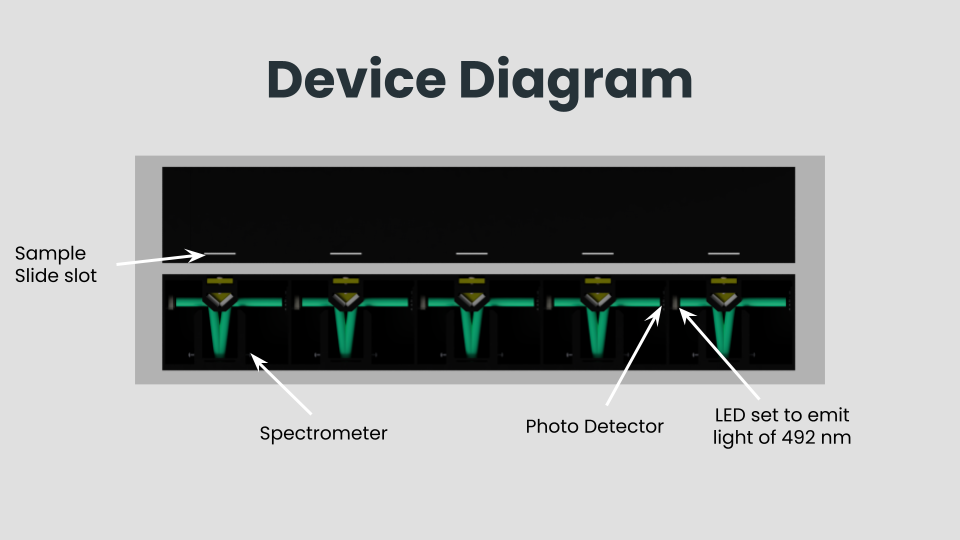
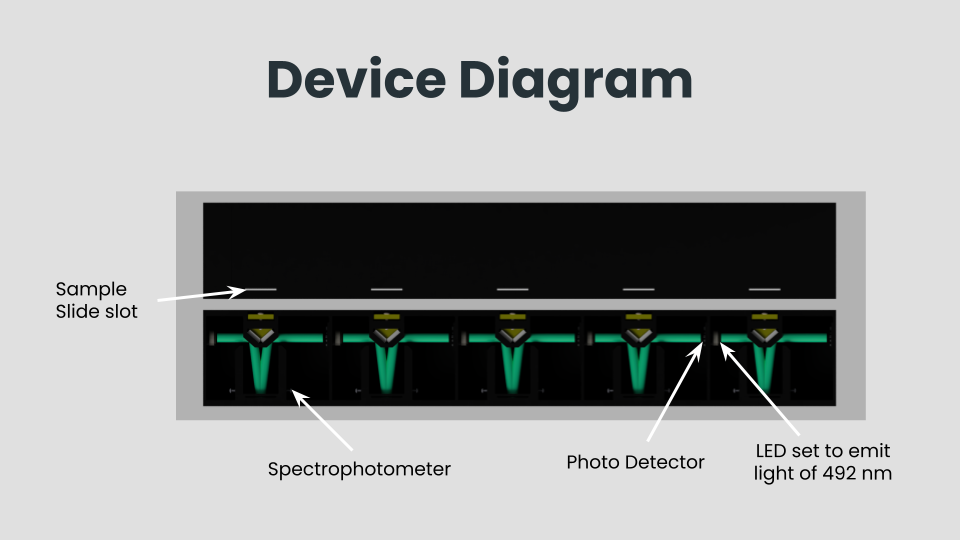
Changes to layout and info

Changed region(s): [[0.0, 0.2667, 0.9375, 0.8889], [0.5938, 0.8296, 0.7188, 0.8889], [0.2812, 0.8593, 0.4688, 0.8889]]

diff --git a/index.html b/index.html
@@ -32,7 +32,7 @@
                         <a class="nav-link" href="applications.html">Applications</a>
                       </li>
                       <li class="nav-item">
-                        <a class="nav-link" href="Sources.html">Sources</a>
+                        <a class="nav-link" href="sources.html">Sources</a>
                       </li>
                     </ul>
                   </div>
@@ -47,7 +47,7 @@
                     <h5>TeamID: 1333-2</h5>
                 </div>
                 <div class="col-md-5 col-sm-12">
-                    <img src="Images and Videos\Brain.png" alt="image"/>
+                    <img src="/Images and Videos/brain.png" alt="image"/>
                 </div>
             </div>
         </div>
@@ -58,15 +58,21 @@
         <div class="container text-center">
             <div class="row">
                 <div class="col-md-6 col-ms-12">
-                    <h3>Device Breakdown</h3>
-                    <p>Our device uses the fluoroimmunoassay technique to measure the concentrations of biomarkers. Five different antibodies (FasL antibody, anti-Apolipoprotein c3 antibody, NTproBNP antibody, HSC70 Antibody, and Anti-oncogene antibody) are labeled fluorescein and spread on different slides. A small amount of the patient's blood is drawn and spread across the five different sample sides. The reaction between the five biomarker antigens (FasL, ApC3, NT-ProBNP, HSC70, and growth related oncogene-∝) releases the fluorescein that was bound to the antibody. The slide is inserted into the device and set on the spectrometer. A light of wavelength 492 nm, the optimum wavelength fluorescein absorbs, is sent through the spectrometer and passed through the sample. The available fluorescein absorbs the light decreasing the intensity of the light. The remaining light is reflected back up to a photodetector that measures the new intensity of the light. The decrease in light intensity is proportional to the amount of fluorescein released which is proportional to the concentration of the biomarkers in the patients blood.</p>
-                </div>
+                    <h3>Overview</h3>
+                    <p>Our device uses the fluoroimmunoassay technique to measure the concentrations of five different antigens(FasL, ApC3, NT-ProBNP, HSC70, and growth related oncogene-∝) which can be used to determine the probability of the occurrence of a stroke.</p>
+                    <h3>How Fluorolyze is used</h3>
+                    <p>A small amount of the patient's blood is drawn and spread across the five different sample sides. The slides are inserted into the slots on the device and it determines the concentration of the five stroke biomarkers through fluoroimmunoassay. Using the determined concentrations the device outputs the probability of a stroke occurring which EMTs can use to prep the patient to receive the proper treatment. This entire process is conducted within only a few minutes.</p>
+                  </div>
                 <div class="col-md-6 col-ms-12">
-                    <iframe scrolling='no' frameborder='0' allowfullscreen='true' src='https://www.3dcontentcentral.com/external-site-embed.aspx?format=3D&catalogid=171&modelid=1529739&width=250&height=250&edraw=true' name='PreviewFrame3D' id='PreviewFrame3D' alt="Model"></iframe><br/><!--<a href='https://www.3dcontentcentral.com/download-model.aspx?catalogid=171&id=1529739'>Download</a>-->
+                    <iframe scrolling='no' style="border:2px solid black;" allowfullscreen='true' src='https://www.3dcontentcentral.com/external-site-embed.aspx?format=3D&catalogid=171&modelid=1529739&width=250&height=250&edraw=true' name='PreviewFrame3D' id='PreviewFrame3D' alt="Model"></iframe><br/><!--<a href='https://www.3dcontentcentral.com/download-model.aspx?catalogid=171&id=1529739'>Download</a>-->
                 </div>
             </div>
 
             <div class="row">
+              <div class="col-md-6 col-sm-12">
+                <h3>Fluroimmunoassay</h3>
+                <p>When conducting a fluoroimmunoassay, either an antibody or antigen is labeled with a fluorescent (our device uses fluorescence) and introduced to their counterpart antibody or antigen. When the antibody and antigen react, the bound fluorescein is released, and its concentration can be determined using a spectrophotometer. A light with a wavelength of 492 nm, fluorescein's maximum absorption, is passed through the sample and the amount of light absorbed is directly proportional to the concentration of fluorescein released. The concentration of fluorescein is directly proportional to the number of antibody-antigen complexes.</p>
+            </div>
                 <div class="col-md-6 col-sm-12">
                     <div id="carouselExampleIndicators" class="carousel slide" data-bs-ride="carousel">
                         <div class="carousel-indicators">
@@ -79,22 +85,22 @@
                         </div>
                         <div class="carousel-inner">
                           <div class="carousel-item active">
-                            <img src="Images and Videos\slide1.png" class="d-block w-100" alt="Slide One">
+                            <img src="/Images and Videos/slide1.png" class="d-block w-100" alt="Slide One">
                           </div>
                           <div class="carousel-item">
-                            <img src="Images and Videos\slide2.png" class="d-block w-100" alt="Slide Two">
+                            <img src="/Images and Videos/slide2.png" class="d-block w-100" alt="Slide Two">
                           </div>
                           <div class="carousel-item">
-                            <img src="Images and Videos\slide3.png" class="d-block w-100" alt="Slide Three">
+                            <img src="/Images and Videos/slide3.png" class="d-block w-100" alt="Slide Three">
                           </div>
                           <div class="carousel-item">
-                            <img src="Images and Videos\slide4.png" class="d-block w-100" alt="Slide Four">
+                            <img src="/Images and Videos/slide4.png" class="d-block w-100" alt="Slide Four">
                           </div>
                           <div class="carousel-item">
-                            <img src="Images and Videos\slide5.png" class="d-block w-100" alt="Slide Five">
+                            <img src="/Images and Videos/slide5.png" class="d-block w-100" alt="Slide Five">
                           </div>
                           <div class="carousel-item">
-                            <img src="Images and Videos\slide6.png" class="d-block w-100" alt="Slide Six">
+                            <img src="/Images and Videos/slide6.png" class="d-block w-100" alt="Slide Six">
                           </div>
                         </div>
                         <button class="carousel-control-prev" type="button" data-bs-target="#carouselExampleIndicators" data-bs-slide="prev">
@@ -108,10 +114,6 @@
                       </div>       
                 </div>
     
-                <div class="col-md-6 col-sm-12">
-                    <h3>Fluroimmunoassay</h3>
-                    <p>Fluroimmunoassay uses a fluorescent molecule to label either an antibody or antigen, in our case the antibody is labeled with fluorescence. A sample of either antigen and antibody is placed on the slide and the reaction between antibody and antigen results in the release of the bound fluorescent. A specific wavelength of light that the fluorescent absorbs the most, in our case 492 nm, is then directed at it. The amount of light absorbed is directly proportional to the concentration of fluorescent released which is directly proportional to the concentration of antigen or antibody present.</p>
-                </div>
             </div>
 
             <div class="text-center">

diff --git a/applications.html b/applications.html
@@ -30,7 +30,7 @@
                         <a class="nav-link" href="applications.html">Applications</a>
                       </li>
                       <li class="nav-item">
-                        <a class="nav-link" href="Sources.html">Sources</a>
+                        <a class="nav-link" href="sources.html">Sources</a>
                       </li>
                     </ul>
                   </div>
@@ -40,19 +40,36 @@
     </header>
 
     <main>
-        <div class="container text-center">
+        <div class="container">
             <div class="row">
-                <div class="col-md-6 col-ms-12">
-                    <h3>Real Life Applications</h3>
-                    <p>If a patient is showing signs of a stroke and calls an ambulance, the average time the ambulance takes to come to their home is between 8 to 15 minutes. From there the patient will reach the hospital in an additional 30 minutes, and an extra 45 minutes is used to reach the proper department to begin evaluating the patient. Finally, around 135 more minutes is needed before the stroke team is called and initiates a CT/MRI scan to diagnose the type of stroke the patient is suffering from, making the total time before any treatment is given to be around 225 minutes.</p>
-                    <p>Using Fluorolyze, patients will be evaluated and tested for stroke inside the ambulance, due to the portability of our device, and the stroke team can be contacted while the patient is still being transported cutting 180 minutes from the entire process. Patients can then receive treatment much quicker reducing the risk of any permanent damage and death.</p>
+                <div class="col-md-3 col-ms-12">
+                    <h3 class="text-center">Steps to treatment without Fluorolyze</h3>
+                    <p>1. A patient is showing signs of a stroke and calls an ambulance</p>
+                    <p>2. Average of 8-15 minutes for ambulance to arrive</p>
+                    <p>3. 30 minutes for the patient to reach hospital</p>
+                    <p>4. 45 minutes to reaches neurology department</p>
+                    <p>5. 135 minutes is needed before the stroke team is called</p>
+                    <p>6. 90 minutes to initiate a CT/MRI scan</p>
+                    <p>7. 300 more minutes till stroke diagnosed and treatment is given</p>
+                    <p>Patients with a stroke can wait up to 10 hours before receiving treatment (Harpaz).</p>
                 </div>
-                <div class="col-md-6 col-ms-12">
-                    <img src="Images and Videos\biotech.png" alt="Image">
+                <div class="col-md-6 col-ms-12 text-center">
+                    <img src="/Images and Videos/biotech.png" alt="Image">
                 </div>
+                <div class="col-md-3 col-ms-12">
+                  <h3 class="text-center">Steps to treatment with Flourolyze</h3>
+                    <p>1. A patient is showing signs of a stroke and calls an ambulance</p>
+                    <p>2. Average of 8-15 minutes for ambulance to arrive</p>
+                    <p>3. Fluorolyze used to determine probability of stroke occuring</p>
+                    <p>4. 30 minutes for stroke team to be called</p>
+                    <p>5. 45 minutes to initiate a CT/MRI scan</p>
+                    <p>6. 90 more minutes till stroke diagnosed and treatment is given</p>
+                    <p>Using flourolyze, up to seven hours can be cut and patients can receive the care they need much faster.</p>
+              </div>
             </div>
+
             <div class="text-center">
-                <h3>Societal Impact</h3>
+                <h3>Accessibilty</h3>
                 <p>Fluorolyze is an accessible device that can be used to save many lives. The dimensions of the Fluorolyze make it incredibly portable and easy to integrate into the vast network of hospitals, ambulances, and treatment centers across the world. The low power draw of 125 watts makes our device cost-effective while providing vastly improved accuracy in the field of stroke detection. Furthermore, hospitals can bring the device to patients’ homes since its dimensions fall within conventional home power consumption limits, opening up a whole new way to reach patients who may not be able to access their local hospital for aid.</p>
             </div>
         </div>

diff --git a/problem.html b/problem.html
@@ -31,7 +31,7 @@
                         <a class="nav-link" href="applications.html">Applications</a>
                       </li>
                       <li class="nav-item">
-                        <a class="nav-link" href="Sources.html">Sources</a>
+                        <a class="nav-link" href="sources.html">Sources</a>
                       </li>
                     </ul>
                   </div>
@@ -42,7 +42,7 @@
   
     <main>
         <video width="100%" height="100%" controls>
-            <source src="Images and Videos\Stroke Infographic.mp4" type="video/mp4">
+            <source src="/Images and Videos/Stroke Infographic.mp4" type="video/mp4">
             <source src="movie.ogg" type="video/ogg">
           Your browser does not support the video tag.
           </video>

diff --git a/style.css b/style.css
@@ -77,33 +77,33 @@ main .container .col-md-6{
 }
 
 main .container .col-md-6 h3{
-    padding: 5vmin 1vmin;
     padding-bottom: 2vmin;
     font-size: 1.5em;
 }
 
 main .container .col-md-6 p{
     font-size: 0.9em;
+    padding-bottom: 5vmin;
 }
 
 main .container .col-md-6 iframe{
     padding: 5vmin 1vmin;
     padding-bottom: 2.5vmin;
     width: 100%;
-    height: 125%;
+    height: 100%;
 }
 
-main .container .col-md-6 h3{
+main .container .col-md-4 img{
+    padding: 5vmin 1vmin;
+    width: 70%;
+}
+
+main .container .col-md-3 h3{
     padding: 5vmin 1vmin;
     padding-bottom: 2vmin;
     font-size: 1.5em;
 }
 
-main .container .col-md-6 p{
+main .container .col-md-3 p{
     font-size: 0.9em;
-}
-
-main .container .col-md-6 img{
-    padding: 5vmin 1vmin;
-    width: 70%;
 }

diff --git a/Sources.html b/Sources.html
@@ -30,7 +30,7 @@
                         <a class="nav-link" href="applications.html">Applications</a>
                       </li>
                       <li class="nav-item">
-                        <a class="nav-link" href="Sources.html">Sources</a>
+                        <a class="nav-link" href="sources.html">Sources</a>
                       </li>
                     </ul>
                   </div>
